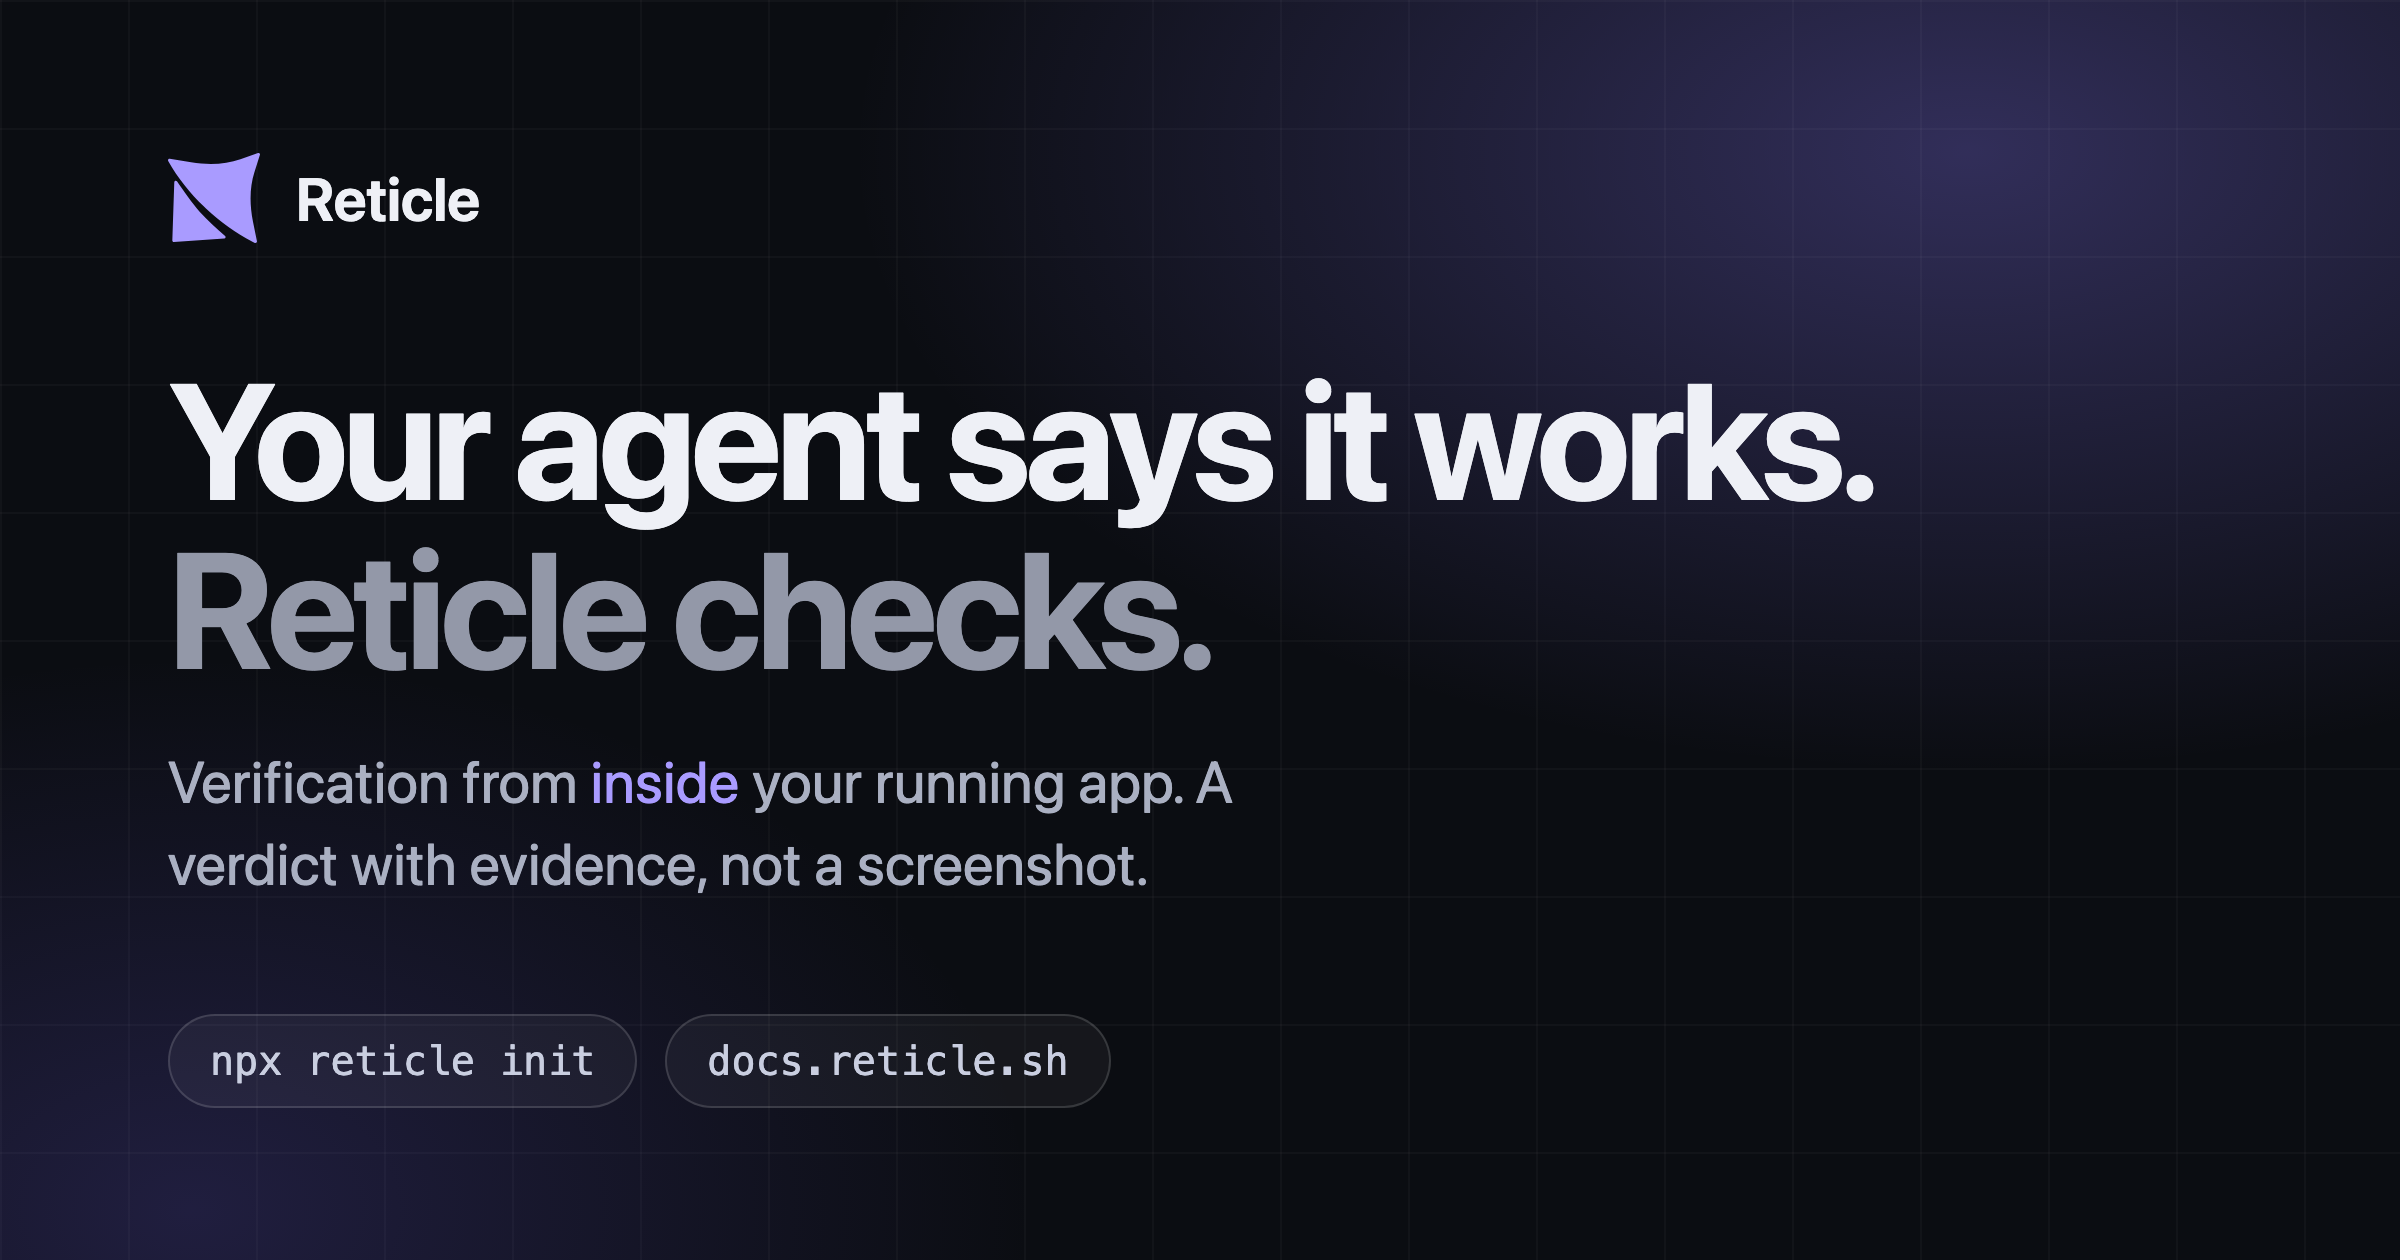
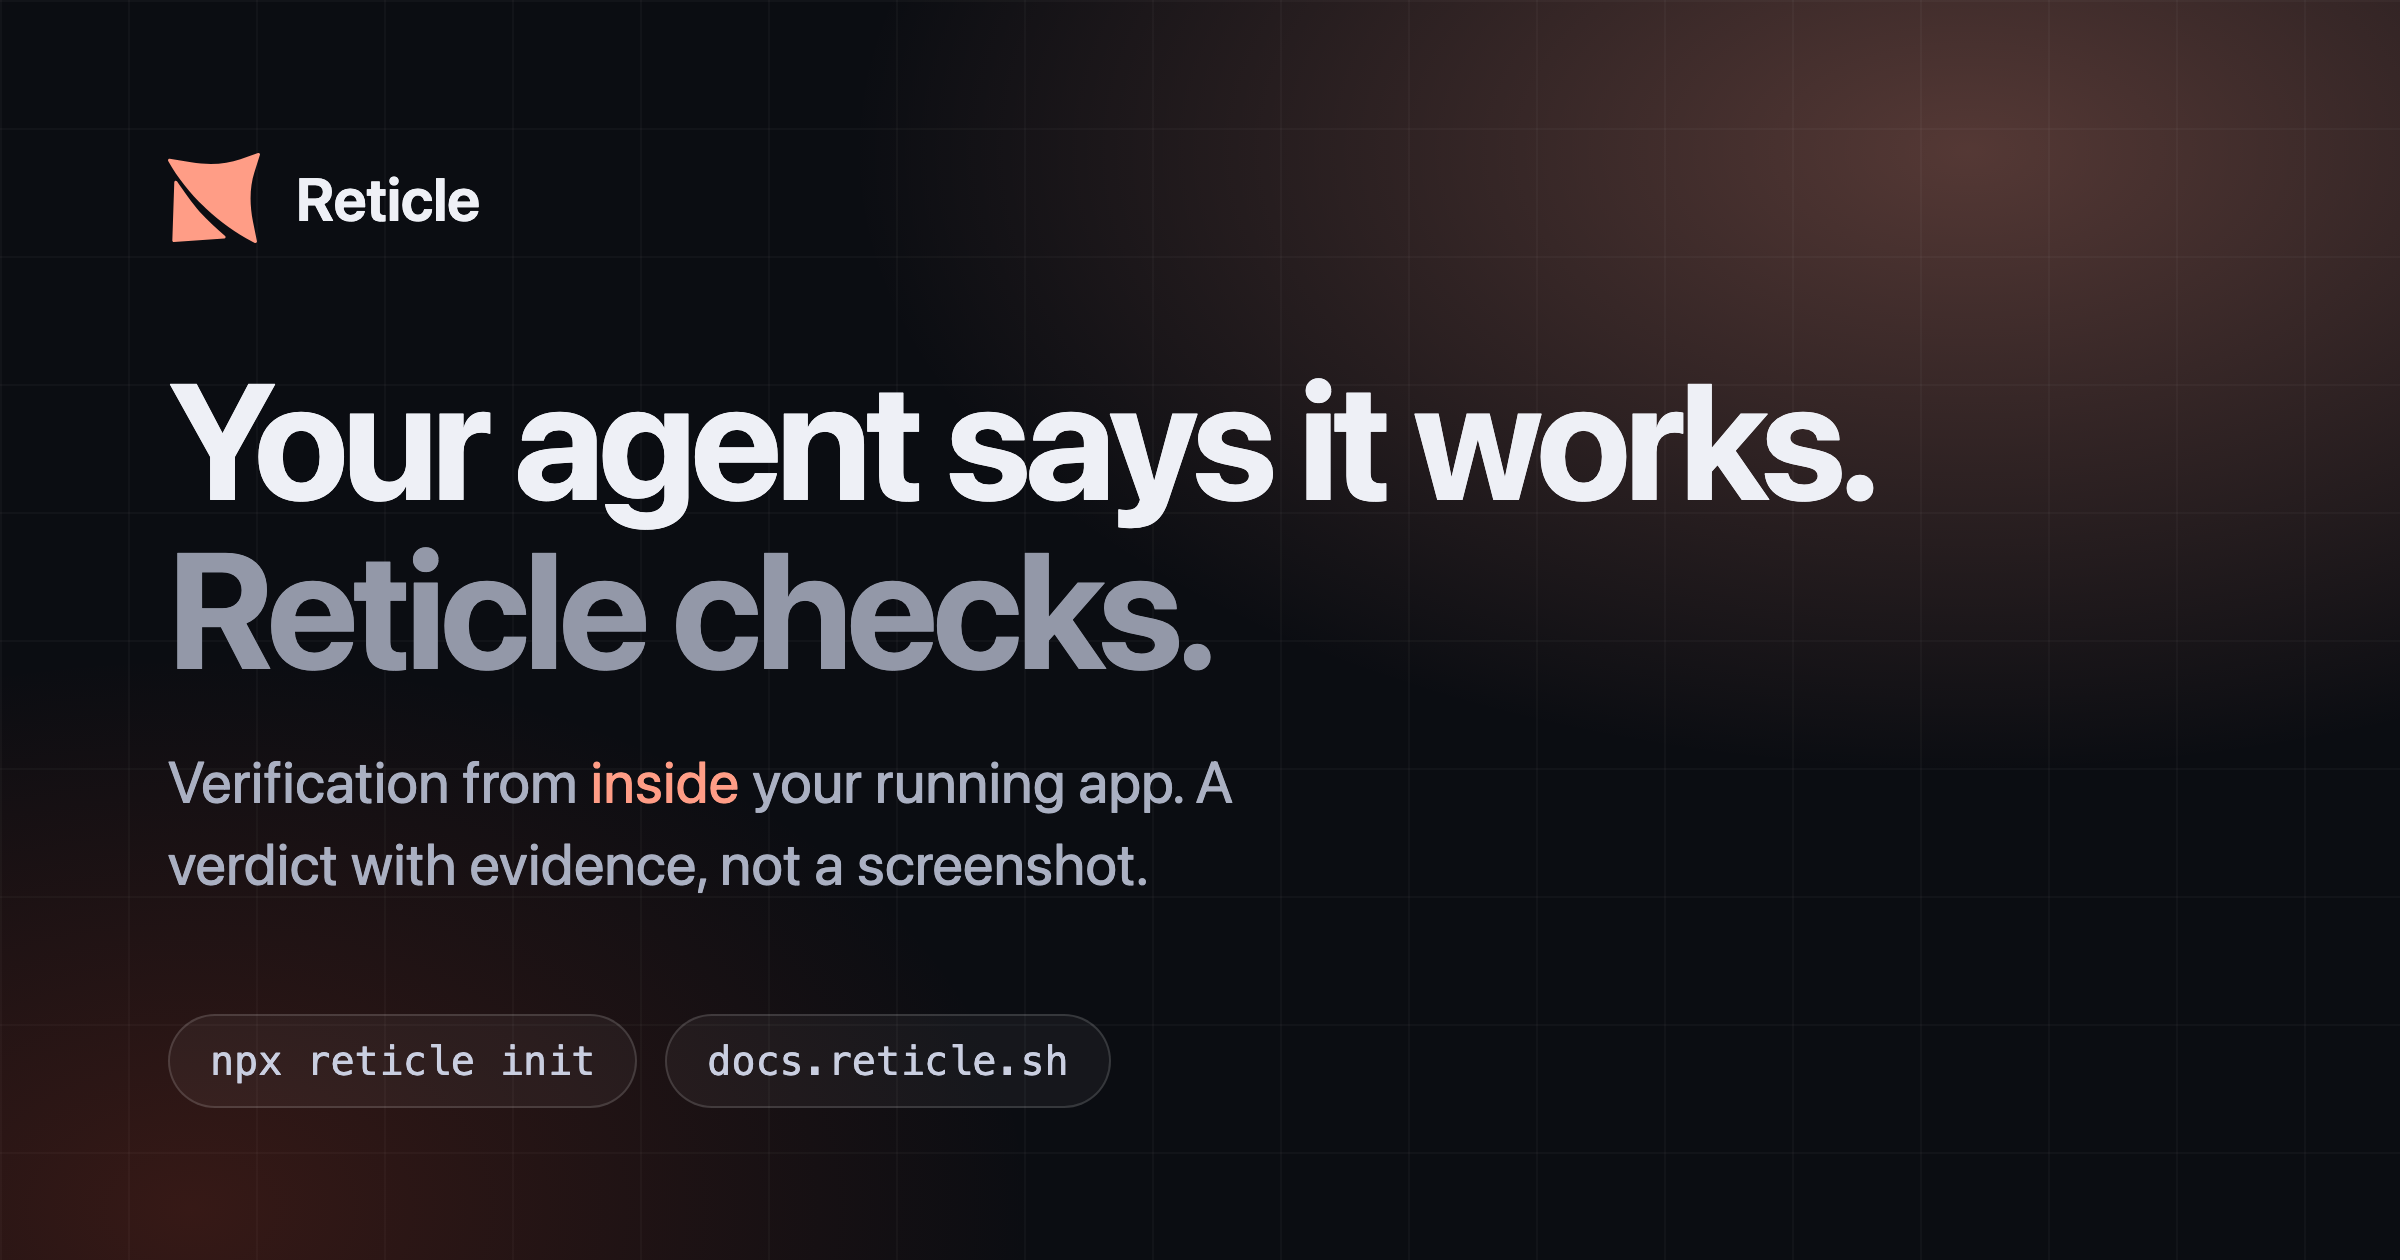
docs: match the site's orange, add the socials, and ask people to join in
Three things, all taken from reticle.sh rather than invented.

The palette comes from the marketing site's own gradient,
`linear-gradient(100deg, #ff9d86, #ffbcac)`:

    primary  #ff9d86   the brand coral, exactly as on the site
    light    #ffbcac   the gradient's light end, used in dark mode (12.1:1 on #0b0d12)
    dark     #d04425   derived for light mode

That third one needed deriving, because `#ff9d86` on white is 2.02:1 and Mintlify uses
`colors.dark` for links and accents in light mode. Darkening at full saturation turns
the coral into a fire engine, so saturation is eased as lightness drops: hue held at
11°, sat 70%, L 48%. That lands at 4.62:1 on white, which clears WCAG AA for normal
text, and still reads as the same family rather than as red.

Socials are the four the site actually links: x.com/reticle_hq, the GitHub repo,
linkedin.com/company/reticlehq, and discord.gg/BwAbzv9ZRz. All four verified live —
LinkedIn answers 999, which is its anti-bot response and not a broken link. Discord
also gets a top-level anchor next to GitHub, and the footer gains a Community column.

The homepage gains a "Build with us" section: join the Discord, star the repo. Both
framed as what they are rather than as growth-hacking. The star line says it is the
cheapest way to help and how other people find this, because that is true and the
alternative is a badge that reads like a demand.

The three figures were rebuilt in the new palette. Leaving them purple against an
[…]

diff --git a/assets/figures/og.html b/assets/figures/og.html
@@ -5,8 +5,8 @@
   html,body { width:1200px; height:630px; }
   body {
     background:
-      radial-gradient(900px 500px at 82% 12%, rgba(139,123,255,.30), transparent 62%),
-      radial-gradient(700px 460px at 8% 96%, rgba(107,91,223,.22), transparent 60%),
+      radial-gradient(900px 500px at 82% 12%, rgba(255,157,134,.30), transparent 62%),
+      radial-gradient(700px 460px at 8% 96%, rgba(208,68,37,.22), transparent 60%),
       #0b0d12;
     color:#eef0f6;
     font-family:-apple-system,BlinkMacSystemFont,"SF Pro Display","Segoe UI",Inter,sans-serif;
@@ -28,12 +28,12 @@
   .chip { font-size:20px; color:#c9cee0; border:1px solid rgba(255,255,255,.14);
           background:rgba(255,255,255,.045); padding:11px 20px; border-radius:999px;
           font-family:ui-monospace,SFMono-Regular,Menlo,monospace; }
-  .accent { color:#a99bff; }
+  .accent { color:#ff9d86; }
 </style>
 <div class="grid"></div>
 <div class="wrap">
   <div class="brand">
-    <svg viewBox="0 0 96 94" fill="none" xmlns="http://www.w3.org/2000/svg"><path d="M92.8175 92.1592C93.0734 93.3999 91.7737 94.3966 90.6276 93.8271C89.6247 93.3288 88.6218 92.8203 87.6292 92.3016C71.1431 83.7793 54.79 72.267 39.6138 57.958C39.0919 57.4902 38.57 56.9817 38.0583 56.4935C22.4523 41.5235 9.7833 25.1399 0.327586 8.52231C0.286653 8.45112 0.245719 8.37993 0.204785 8.30874C-0.439922 7.20023 0.511789 5.83747 1.79097 6.05103L24.0692 9.71218C43.0625 12.8343 60.6333 11.7462 75.5537 6.52902L93.9534 0.0914973C95.1507 -0.325467 96.3071 0.783048 95.9285 1.98309L90.0954 20.4922C85.3676 35.4826 84.8968 52.9748 88.6934 71.728L92.8278 92.1592H92.8175Z" fill="#a99bff"/><path d="M58.7197 89.2298L6.15046 92.7994C5.23968 92.8604 4.48241 92.1282 4.51311 91.2231L6.5598 30.387C6.61097 28.9124 8.51439 28.3632 9.35353 29.5734C16.2304 39.428 24.98 52.3539 33.0133 61.2627C41.0465 70.1715 50.6046 78.7243 59.6202 86.5551C60.6538 87.4501 60.0807 89.1281 58.7197 89.2298Z" fill="#a99bff"/></svg>
+    <svg viewBox="0 0 96 94" fill="none" xmlns="http://www.w3.org/2000/svg"><path d="M92.8175 92.1592C93.0734 93.3999 91.7737 94.3966 90.6276 93.8271C89.6247 93.3288 88.6218 92.8203 87.6292 92.3016C71.1431 83.7793 54.79 72.267 39.6138 57.958C39.0919 57.4902 38.57 56.9817 38.0583 56.4935C22.4523 41.5235 9.7833 25.1399 0.327586 8.52231C0.286653 8.45112 0.245719 8.37993 0.204785 8.30874C-0.439922 7.20023 0.511789 5.83747 1.79097 6.05103L24.0692 9.71218C43.0625 12.8343 60.6333 11.7462 75.5537 6.52902L93.9534 0.0914973C95.1507 -0.325467 96.3071 0.783048 95.9285 1.98309L90.0954 20.4922C85.3676 35.4826 84.8968 52.9748 88.6934 71.728L92.8278 92.1592H92.8175Z" fill="#ff9d86"/><path d="M58.7197 89.2298L6.15046 92.7994C5.23968 92.8604 4.48241 92.1282 4.51311 91.2231L6.5598 30.387C6.61097 28.9124 8.51439 28.3632 9.35353 29.5734C16.2304 39.428 24.98 52.3539 33.0133 61.2627C41.0465 70.1715 50.6046 78.7243 59.6202 86.5551C60.6538 87.4501 60.0807 89.1281 58.7197 89.2298Z" fill="#ff9d86"/></svg>
     <span>Reticle</span>
   </div>
   <div>

diff --git a/assets/figures/desktop.html b/assets/figures/desktop.html
@@ -9,7 +9,7 @@
   .row{display:flex;gap:26px;align-items:stretch}
   .col{flex:1;display:flex;flex-direction:column}
   .tag{font-size:13.5px;font-weight:680;letter-spacing:.09em;text-transform:uppercase;margin-bottom:11px}
-  .tag.a{color:#7d8496}.tag.b{color:#a99bff}
+  .tag.a{color:#7d8496}.tag.b{color:#ff9d86}
   .panel{background:#11141c;border:1px solid rgba(255,255,255,.09);border-radius:14px;padding:20px 22px;flex:1}
   .panel.win{background:#141821;padding:0;overflow:hidden}
   .bar{background:#1b202b;padding:10px 14px;display:flex;gap:7px;align-items:center;border-bottom:1px solid rgba(255,255,255,.07)}
@@ -25,8 +25,8 @@
   code{font-family:ui-monospace,SFMono-Regular,Menlo,monospace;font-size:14.5px;line-height:1.85;display:block;white-space:pre}
   .k{color:#8fb4ff}.s{color:#9ce6b4}.n{color:#f0c674}.r{color:#ff8f8f}
   .hl{background:rgba(255,120,120,.12);box-shadow:inset 3px 0 0 #ff8f8f;margin:0 -22px;padding:0 19px}
-  .verdict{margin-top:16px;border-left:3px solid #a99bff;padding:2px 0 2px 15px}
-  .verdict b{display:block;font-size:15px;color:#c9bfff;margin-bottom:3px;font-family:ui-monospace,Menlo,monospace}
+  .verdict{margin-top:16px;border-left:3px solid #ff9d86;padding:2px 0 2px 15px}
+  .verdict b{display:block;font-size:15px;color:#ffbcac;margin-bottom:3px;font-family:ui-monospace,Menlo,monospace}
   .verdict span{font-size:14.5px;color:#a3a9bb;line-height:1.55}
   .foot{margin-top:30px;font-size:15px;color:#8b91a3}
   .foot b{color:#eef0f6;font-weight:620}

diff --git a/assets/figures/verdict.html b/assets/figures/verdict.html
@@ -7,18 +7,18 @@
        padding:52px 58px}
   h2{font-size:30px;font-weight:660;letter-spacing:-.6px;margin-bottom:7px}
   .lede{color:#9aa0b2;font-size:17px;margin-bottom:30px}
-  .lede code{font-family:ui-monospace,Menlo,monospace;color:#c9bfff}
+  .lede code{font-family:ui-monospace,Menlo,monospace;color:#ffbcac}
   .row{display:flex;gap:32px;align-items:flex-start}
   .code{background:#11141c;border:1px solid rgba(255,255,255,.09);border-radius:14px;
         padding:22px 0;flex:1;font-family:ui-monospace,SFMono-Regular,Menlo,monospace;
         font-size:16px;line-height:1.85}
   .l{white-space:pre;padding:0 26px}
-  .l.hl{background:rgba(139,123,255,.15);box-shadow:inset 3px 0 0 #a99bff}
+  .l.hl{background:rgba(255,157,134,.15);box-shadow:inset 3px 0 0 #ff9d86}
   .k{color:#8fb4ff}.s{color:#9ce6b4}.n{color:#f0c674}.p{color:#c58af9}
   .notes{width:420px;display:flex;flex-direction:column;gap:19px;padding-top:4px}
-  .note{box-shadow:inset 3px 0 0 #a99bff;padding:2px 0 2px 16px}
+  .note{box-shadow:inset 3px 0 0 #ff9d86;padding:2px 0 2px 16px}
   .note b{display:block;font-size:16px;font-weight:640;margin-bottom:4px;
-          font-family:ui-monospace,Menlo,monospace;color:#c9bfff}
+          font-family:ui-monospace,Menlo,monospace;color:#ffbcac}
   .note span{font-size:15px;color:#a3a9bb;line-height:1.6}
 </style>
 <h2>One response, six things proved</h2>
